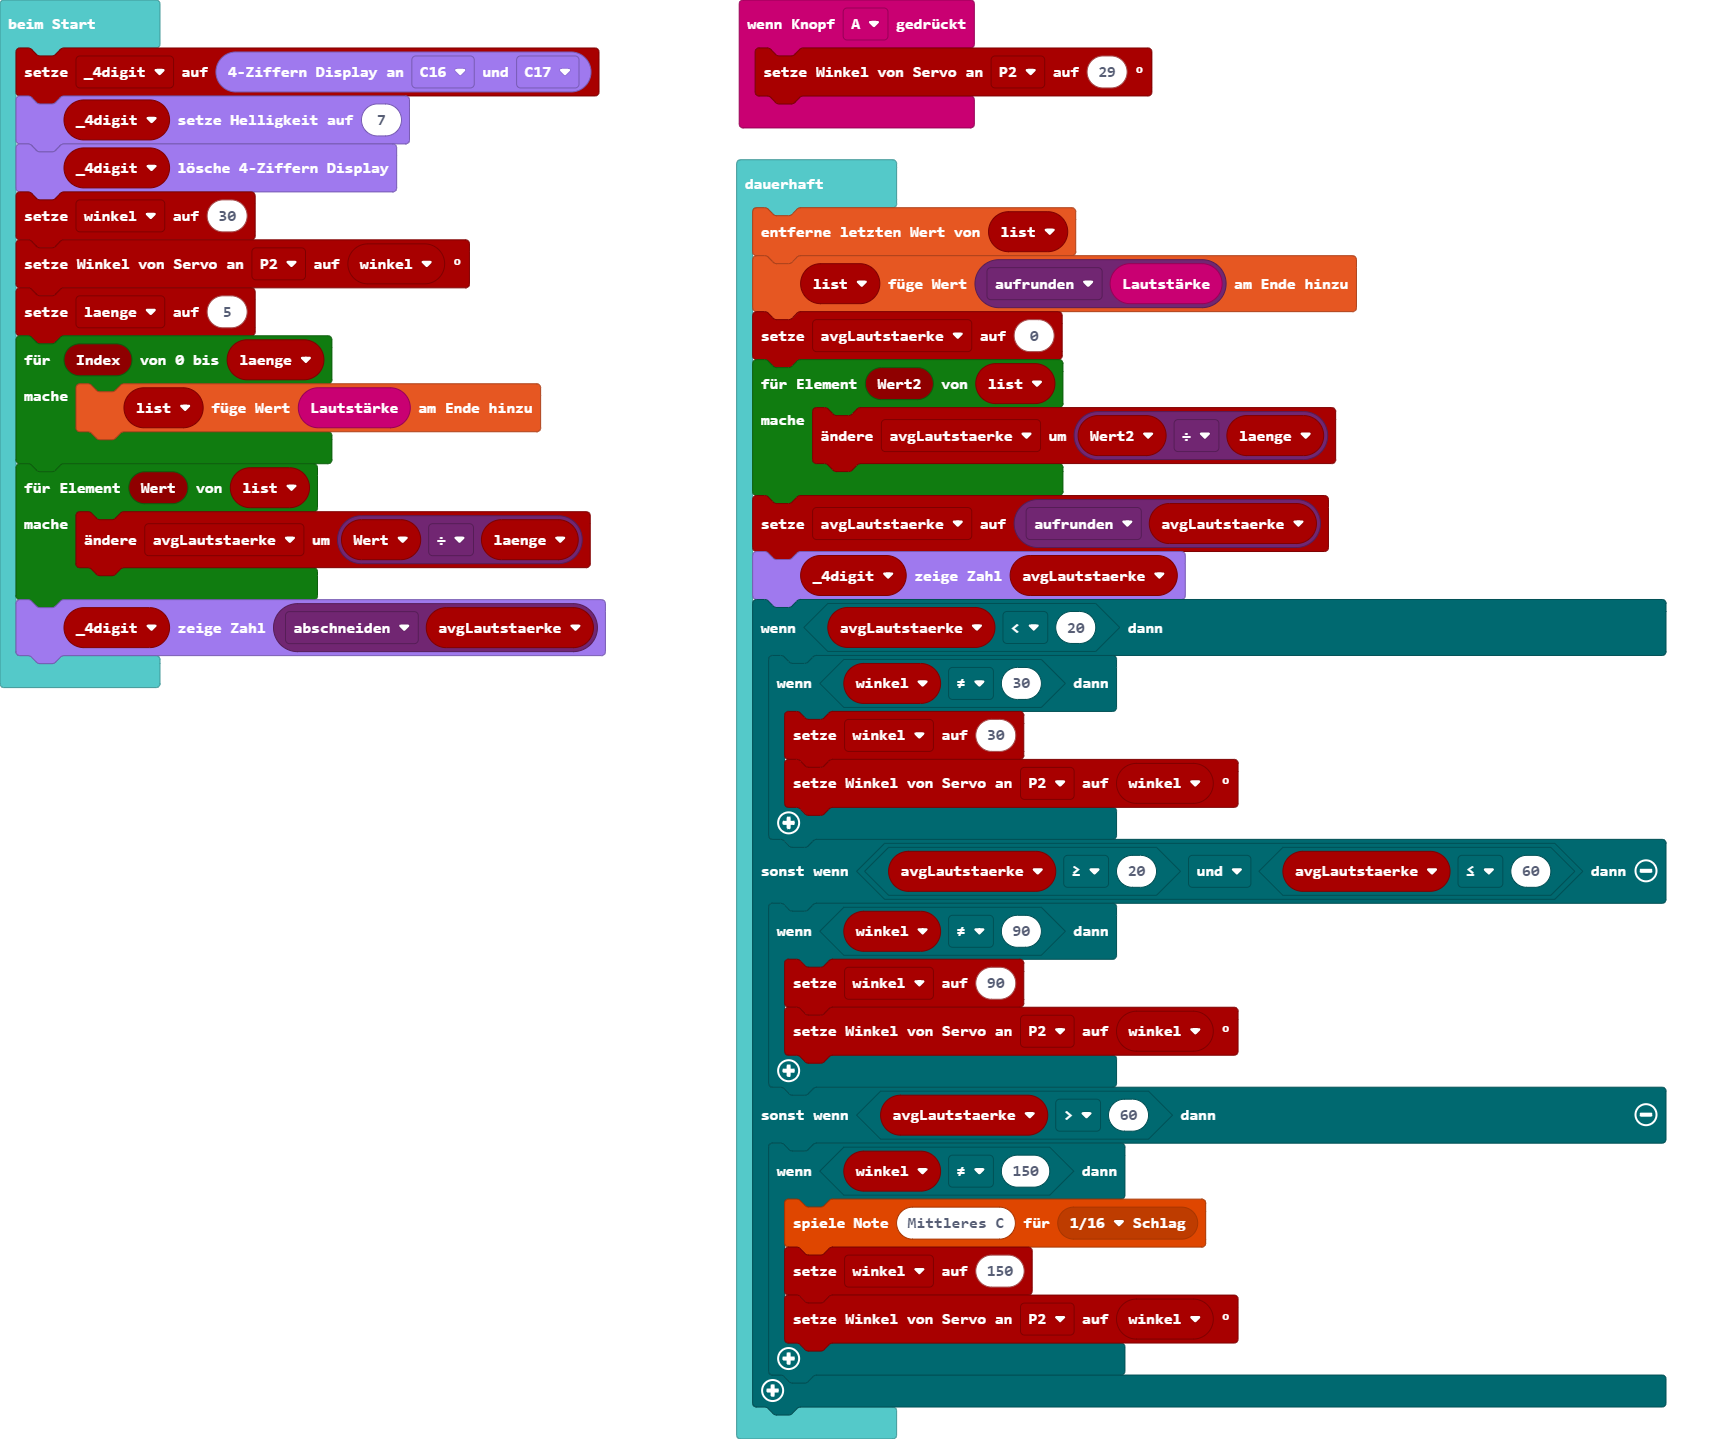
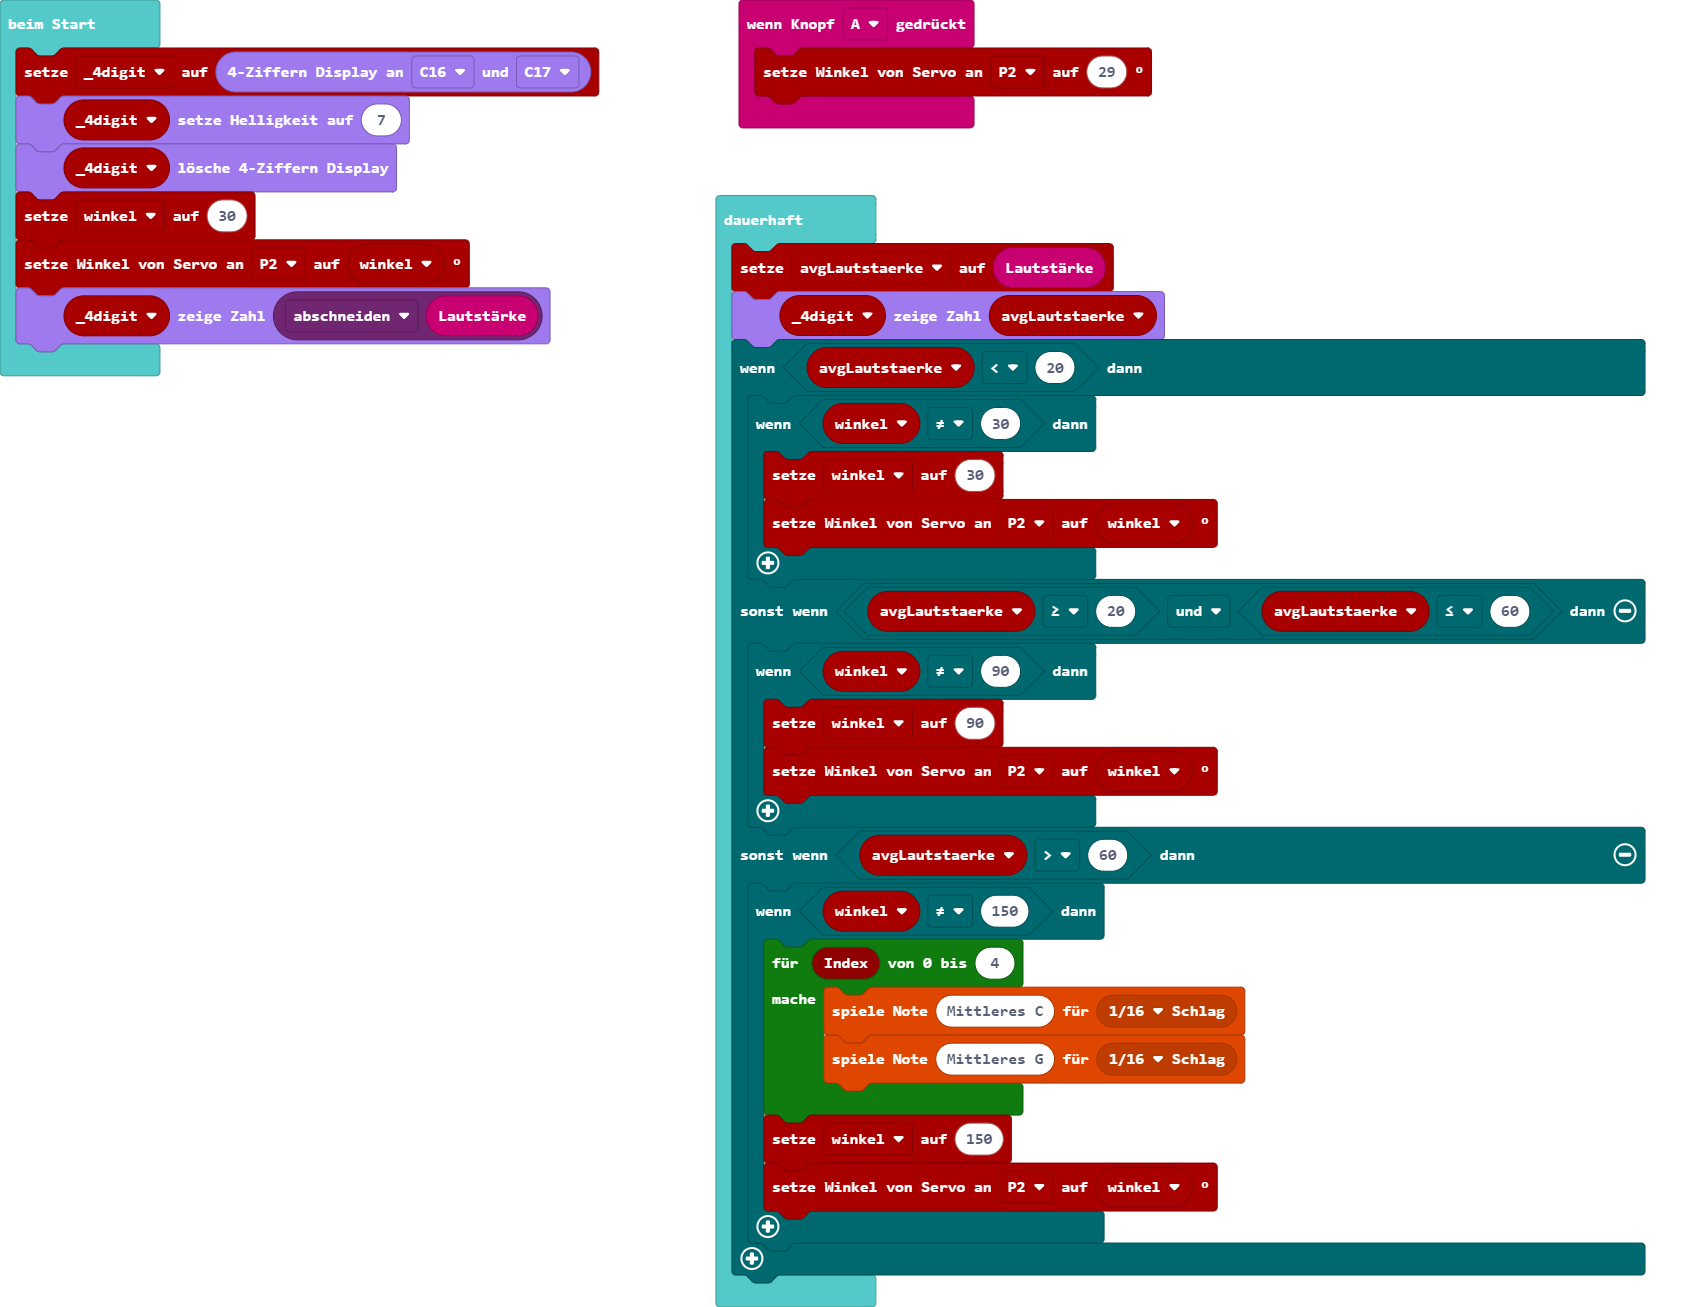
Aktualisiere main.blocks, main.ts

diff --git a/main.ts b/main.ts
@@ -2,28 +2,14 @@ input.onButtonPressed(Button.A, function () {
     pins.servoWritePin(AnalogPin.P2, 29)
 })
 let avgLautstaerke = 0
-let list: number[] = []
 let _4digit = grove.createDisplay(DigitalPin.C16, DigitalPin.C17)
 _4digit.set(7)
 _4digit.clear()
 let winkel = 30
 pins.servoWritePin(AnalogPin.P2, winkel)
-let laenge = 5
-for (let Index = 0; Index <= laenge; Index++) {
-    list.push(input.soundLevel())
-}
-for (let Wert of list) {
-    avgLautstaerke += Wert / laenge
-}
-_4digit.show(Math.trunc(avgLautstaerke))
+_4digit.show(Math.trunc(input.soundLevel()))
 basic.forever(function () {
-    list.pop()
-    list.push(Math.ceil(input.soundLevel()))
-    avgLautstaerke = 0
-    for (let Wert2 of list) {
-        avgLautstaerke += Wert2 / laenge
-    }
-    avgLautstaerke = Math.ceil(avgLautstaerke)
+    avgLautstaerke = input.soundLevel()
     _4digit.show(avgLautstaerke)
     if (avgLautstaerke < 20) {
         if (winkel != 30) {
@@ -37,7 +23,10 @@ basic.forever(function () {
         }
     } else if (avgLautstaerke > 60) {
         if (winkel != 150) {
-            music.playTone(262, music.beat(BeatFraction.Sixteenth))
+            for (let Index = 0; Index <= 4; Index++) {
+                music.playTone(262, music.beat(BeatFraction.Sixteenth))
+                music.playTone(392, music.beat(BeatFraction.Sixteenth))
+            }
             winkel = 150
             pins.servoWritePin(AnalogPin.P2, winkel)
         }
